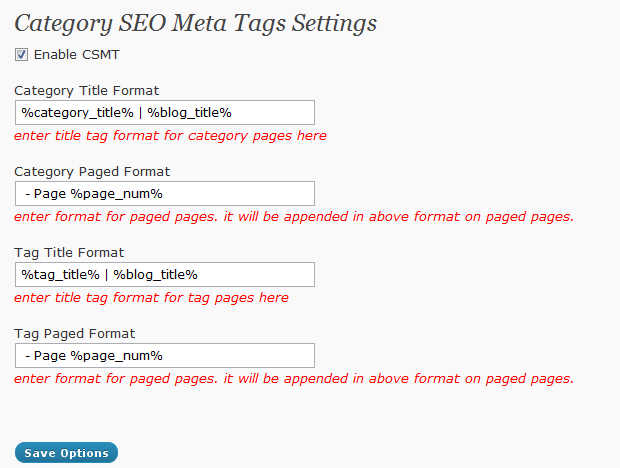
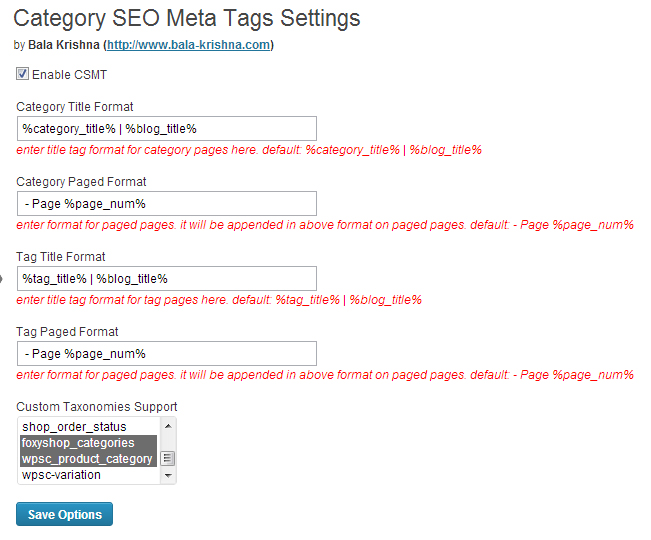
2.5 update with custom taxonomy support
git-svn-id: https://plugins.svn.wordpress.org/category-seo-meta-tags/trunk@667393 b8457f37-d9ea-0310-8a92-e5e31aec5664

diff --git a/category-seo-meta-tags.php b/category-seo-meta-tags.php
@@ -2,14 +2,14 @@
 /**
  * @package Category SEO Meta Tags
  * @author Bala Krishna
- * @version 2.3
+ * @version 2.5
  */
 /*
 Plugin Name: Category SEO Meta Tags
 Plugin URI: http://www.bala-krishna.com/wordpress-plugins/category-seo-meta-tags/
-Description: Add ability to add meta tags for category and tag pages. This plugin specially designed to work with All In One SEO plugin. <br /><a href="options-general.php?page=csmt">Settings</a> | <a href="https://www.paypal.com/cgi-bin/webscr?cmd=_donations&business=krishna711%40gmail%2ecom&item_name=WP Plugin Support Donation&item_number=Support%20Forum&no_shipping=0&no_note=1&tax=0&currency_code=USD&lc=US&bn=PP%2dDonationsBF&charset=UTF%2d8">Donate</a> | <a href="http://www.bala-krishna.com/forum/" >Support Forum</a> 
+Description: Add ability to add meta tags for category,tag pages and custom taxonomies. This plugin specially designed to work with All In One SEO plugin. <br /><a href="options-general.php?page=csmt">Settings</a> | <a href="https://www.paypal.com/cgi-bin/webscr?cmd=_donations&business=krishna711%40gmail%2ecom&item_name=WP Plugin Support Donation&item_number=Support%20Forum&no_shipping=0&no_note=1&tax=0&currency_code=USD&lc=US&bn=PP%2dDonationsBF&charset=UTF%2d8">Donate</a> | <a href="http://www.bala-krishna.com/forum/" >Support Forum</a> 
 Author: Bala Krishna, Sergey Yakovlev
-Version: 2.3
+Version: 2.5
 Author URI: http://www.bala-krishna.com
 */
 
@@ -21,6 +21,7 @@ This program is distributed in the hope that it will be useful, but WITHOUT ANY 
 */
 
 $csmt_domain = "category-seo-meta-tags";
+$csmt_version = '2.5';
 $csmt_is_setup = 0;
 
 function csmt_setup(){
@@ -56,7 +57,6 @@ function cat_seo_title_tag()
 	show_category_meta_title();
 }
 
-
 if(isset($_REQUEST['submit']) and $_REQUEST['submit'] and isset($_REQUEST['csmt_cat_title_format'])) {
 		if(isset($_REQUEST['csmt_enabled'])) {
 			$csmt_options['csmt_enabled'] = "1";
@@ -67,9 +67,9 @@ if(isset($_REQUEST['submit']) and $_REQUEST['submit'] and isset($_REQUEST['csmt_
 		$csmt_options['csmt_cat_paged_format'] = $_REQUEST['csmt_cat_paged_format'];
 		$csmt_options['csmt_tag_title_format'] = $_REQUEST['csmt_tag_title_format'];
 		$csmt_options['csmt_tag_paged_format'] = $_REQUEST['csmt_tag_paged_format'];
+		$csmt_options['csmt_taxonomies'] = $_REQUEST['csmt_taxonomies'];
 		update_option('csmt_options',$csmt_options);
 }
-
 
 if(isset($_POST['action']) && $_POST['action']=="editedtag" && $_POST['taxonomy']=="category") {
     $cat_meta_setting['page_title']=$_POST['cat_title'];
@@ -88,10 +88,26 @@ if(isset($_POST['action']) && $_POST['action']=="editedtag" && $_POST['taxonomy'
 		 update_option('tag_meta_key_'.$_POST['tag_ID'],$tag_meta_setting);
 	}	 
 }
-
+$csmt_options = get_option('csmt_options');
+$taxonomies = $csmt_options['csmt_taxonomies'];
+if(is_array($taxonomies)) {
+foreach ($taxonomies as $taxonomy ) {
+	if(isset($_POST['action']) && $_POST['action']=="editedtag" && $_POST['taxonomy']==$taxonomy) {
+		$tag_meta_setting['page_title']=$_POST['tag_title'];
+		$tag_meta_setting['description']=$_POST['tag_desc'];
+		$tag_meta_setting['metakey']=$_POST['tag_keywords'];
+		if(!empty($tag_meta_setting['page_title'])) {
+			 update_option($taxonomy.'_meta_key_'.$_POST['tag_ID'],$tag_meta_setting);
+		}	 
+	}
+}
+}
 // Meta Placement for category and tag pages
 
 function show_category_meta() {
+	global $wp_query, $wpsc_query;
+	$is_wpsc_bk = 0;
+	$csmt_options = get_option('csmt_options');
 	$cur_cat_id = get_cat_id( single_cat_title("",false) );
 	if(is_category($cur_cat_id)) {
 		get_current_cat_meta($cur_cat_id);
@@ -101,7 +117,28 @@ function show_category_meta() {
 		$cur_tag_id = get_query_var('tag_id');
 		get_current_tag_meta($cur_tag_id);
 	}
-
+	
+	if (isset($wpsc_query->query_vars['wpsc_product_category']) && !isset($wpsc_query->query_vars['wpsc-product'])) {
+		$current_taxonomy = 'wpsc_product_category';
+		$tag = get_term_by('slug', $wpsc_query->query_vars['wpsc_product_category'], 'wpsc_product_category');
+		$cur_tag_id = $tag->term_id;
+		$tag_meta_data = get_option($current_taxonomy.'_meta_key_'.$cur_tag_id); 
+		$current_taxonomy_val =	$wpsc_query->query_vars[$current_taxonomy];
+		get_current_tax_meta($current_taxonomy,$cur_tag_id);	
+	} else if(is_tax()) { // 4
+		//echo "TAX TRUE";
+		$taxonomies = $csmt_options['csmt_taxonomies'];
+		if(is_array($taxonomies)) { // 3
+			foreach ($taxonomies as $taxonomy ) { // 2
+				$taxonomy_val =	get_query_var($taxonomy);
+				if(is_tax($taxonomy,$taxonomy_val)) { // 1
+					$tag = get_term_by('slug', $taxonomy_val, $taxonomy);
+					$cur_tag_id = $tag->term_id;
+					get_current_tax_meta($taxonomy,$cur_tag_id);	
+				} // 1
+			} // 2
+		} // 3	
+	} // 4
 }
 
 function show_category_meta_title() {
@@ -141,10 +178,60 @@ function show_category_title() {
 }
 
 function show_tag_title() {
-	$cur_tag_id = get_query_var('tag_id');
-	$tag_meta_data = get_option('tag_meta_key_'.$cur_tag_id);
 	$csmt_options = get_option('csmt_options');
-	if(get_option('tag_meta_key_'.$cur_tag_id) && $csmt_options['csmt_enabled']) {
+	$taxonomies = $csmt_options['csmt_taxonomies'];
+	//echo "TAX TRUE";
+	global $wp_query, $wpsc_query;
+	$is_wpsc_bk = 0;
+	if (isset($wpsc_query->query_vars['wpsc_product_category']) && !isset($wpsc_query->query_vars['wpsc-product'])) {
+		$taxonomy = 'wpsc_product_category';
+		$tag = get_term_by('slug', $wpsc_query->query_vars['wpsc_product_category'], 'wpsc_product_category');
+		$cur_tag_id = $tag->term_id;
+		$tag_meta_data = get_option($taxonomy.'_meta_key_'.$cur_tag_id); 
+		$current_taxonomy = $taxonomy;
+		//$current_taxonomy_val =	get_query_var($taxonomy); 	
+		$current_taxonomy_val =	$wpsc_query->query_vars['wpsc_product_category'];
+		$is_wpsc_bk = 1; 	
+	} else if(is_tax()) {
+		if(is_array($taxonomies)) {
+			foreach ($taxonomies as $taxonomy ) {
+				$taxonomy_val =	get_query_var($taxonomy);
+				if(is_tax($taxonomy,$taxonomy_val)) {
+					$tag = get_term_by('slug', $taxonomy_val, $taxonomy);
+					$cur_tag_id = $tag->term_id;
+					$tag_meta_data = get_option($taxonomy.'_meta_key_'.$cur_tag_id); 
+					$current_taxonomy = $taxonomy;
+					$current_taxonomy_val =	get_query_var($taxonomy); 	
+				}
+			}
+		}	
+	} else {
+		$cur_tag_id = get_query_var('tag_id');
+		$tag_meta_data = get_option('tag_meta_key_'.$cur_tag_id);
+	}
+	if($is_wpsc_bk && get_option($current_taxonomy.'_meta_key_'.$cur_tag_id) && $csmt_options['csmt_enabled']) {
+		$title = "";
+		$title2 = "";
+		$title = str_replace('%tag_title%', $tag_meta_data['page_title'], $csmt_options['csmt_tag_title_format']);
+		$title = str_replace('%blog_title%', get_bloginfo('name'), $title);
+		if(is_paged())
+		{
+			$paged = (get_query_var('paged')) ? get_query_var('paged') : 1;
+			$title2 = str_replace('%page_num%', $paged, $csmt_options['csmt_tag_paged_format']);
+		}
+		$title = $title.$title2;
+	} else if(is_tax() && get_option($current_taxonomy.'_meta_key_'.$cur_tag_id) && $csmt_options['csmt_enabled']) {
+		$title = "";
+		$title2 = "";
+		$title = str_replace('%tag_title%', $tag_meta_data['page_title'], $csmt_options['csmt_tag_title_format']);
+		$title = str_replace('%blog_title%', get_bloginfo('name'), $title);
+		if(is_paged())
+		{
+			$paged = (get_query_var('paged')) ? get_query_var('paged') : 1;
+			$title2 = str_replace('%page_num%', $paged, $csmt_options['csmt_tag_paged_format']);
+		}
+		$title = $title.$title2;
+	} else if(get_option('tag_meta_key_'.$cur_tag_id) && $csmt_options['csmt_enabled']) {
 		$title = "";
 		$title2 = "";
 		$title = str_replace('%tag_title%', $tag_meta_data['page_title'], $csmt_options['csmt_tag_title_format']);
@@ -165,29 +252,45 @@ function show_tag_title() {
 		}
 		$title = $title.$title2;
 	}
+	//$title = $current_taxonomy." ".$current_taxonomy_val." ".$cur_tag_id." ".$title;
+	//$title = $cur_tag_id." ".$title;
 	return $title;
 }
 
 
 function get_current_cat_meta($cur_cat_id) {
 	$csmt_options = get_option('csmt_options');
+	global $csmt_version;
 	if(get_option('cat_meta_key_'.$cur_cat_id) && $csmt_options['csmt_enabled']) {
 	  $cat_meta_data = get_option('cat_meta_key_'.$cur_cat_id);
-	  echo '<!-- Category SEO Meta Tags 2.2 by Bala Krishna (http://www.bala-krishna.com) -->'."\r\n";
+	  echo '<!-- Category SEO Meta Tags '.$csmt_version.' by Bala Krishna (http://www.bala-krishna.com) -->'."\r\n";
 	  echo '<meta name="description" content="'.$cat_meta_data['description'].'" />'."\r\n";
 	  echo '<meta name="keywords" content="'.$cat_meta_data['metakey'].'" />'."\r\n";
-	  echo '<!-- /Category SEO Meta Tags 2.2 -->'."\r\n";
+	  echo '<!-- /Category SEO Meta Tags '.$csmt_version.' -->'."\r\n";
 	}
 }
 
 function get_current_tag_meta($cur_tag_id) {
 	$csmt_options = get_option('csmt_options');
+	global $csmt_version;
 	if(get_option('tag_meta_key_'.$cur_tag_id) && $csmt_options['csmt_enabled']) {
 	  $tag_meta_data = get_option('tag_meta_key_'.$cur_tag_id);
-	  echo '<!-- Category SEO Meta Tags 2.2 by Bala Krishna (http://www.bala-krishna.com) -->'."\r\n";
+	  echo '<!-- Category SEO Meta Tags '.$csmt_version.' by Bala Krishna (http://www.bala-krishna.com) -->'."\r\n";
 	  echo '<meta name="description" content="'.$tag_meta_data['description'].'" />'."\r\n";
 	  echo '<meta name="keywords" content="'.$tag_meta_data['metakey'].'" />'."\r\n";
-	  echo '<!-- /Category SEO Meta Tags 2.2 -->'."\r\n";
+	  echo '<!-- /Category SEO Meta Tags '.$csmt_version.' -->'."\r\n";
+	}
+}
+
+function get_current_tax_meta($taxonomy,$cur_tag_id) {
+	$csmt_options = get_option('csmt_options');
+	global $csmt_version;
+	if(get_option($taxonomy.'_meta_key_'.$cur_tag_id) && $csmt_options['csmt_enabled']) {
+	  $tag_meta_data = get_option($taxonomy.'_meta_key_'.$cur_tag_id);
+	  echo '<!-- Category SEO Meta Tags '.$csmt_version.' by Bala Krishna (http://www.bala-krishna.com) -->'."\r\n";
+	  echo '<meta name="description" content="'.$tag_meta_data['description'].'" />'."\r\n";
+	  echo '<meta name="keywords" content="'.$tag_meta_data['metakey'].'" />'."\r\n";
+	  echo '<!-- /Category SEO Meta Tags '.$csmt_version.' -->'."\r\n";
 	}
 }
 
@@ -208,7 +311,8 @@ function csmt_admin_options() {
   }
 
   echo '<div class="wrap">';
-  echo '<h2>' . _e("Category SEO Meta Tags Settings", $csmt_domain) . '</h2>';
+  echo '<h2>' . __("Category SEO Meta Tags Settings", $csmt_domain) . '</h2>  by
+<strong>Bala Krishna (<a href="http://www.bala-krishna.com" target="_blank">http://www.bala-krishna.com</a>)</strong>';
   if(isset($_REQUEST['submit']) and $_REQUEST['submit']) {
   echo '<div class="updated fade" id="message">';
   echo '<p>' . _e("Category SEO Meta Tags Settings Updated", $csmt_domai) . '</p>';
@@ -230,20 +334,36 @@ $csmt_options = get_option('csmt_options');
 
 <br />
 <?php echo _e("Category Title Format", $csmt_domain); ?> <br /><input name="csmt_cat_title_format" id="csmt_cat_title_format" value="<?php echo $csmt_options['csmt_cat_title_format']; ?>" style="width:290px;" /><br />
-<em><span style="color:#F00"><?php echo _e("enter title tag format for category pages here", $csmt_domain); ?></span></em>
+<em><span style="color:#F00"><?php echo _e("enter title tag format for category pages here. default: %category_title% | %blog_title%", $csmt_domain); ?></span></em>
 <br /><br />
 <?php echo _e("Category Paged Format", $csmt_domain); ?> <br /><input name="csmt_cat_paged_format" id="csmt_cat_paged_format" value="<?php echo $csmt_options['csmt_cat_paged_format']; ?>" style="width:290px;" /><br />
-<em><span style="color:#F00"><?php echo _e("enter format for paged pages. it will be appended in above format on paged pages.", $csmt_domain); ?></span></em>
+<em><span style="color:#F00"><?php echo _e("enter format for paged pages. it will be appended in above format on paged pages. default: - Page %page_num%", $csmt_domain); ?></span></em>
 <br /><br />
 <?php echo _e("Tag Title Format", $csmt_domain); ?> <br /><input name="csmt_tag_title_format" id="csmt_tag_title_format" value="<?php echo $csmt_options['csmt_tag_title_format']; ?>" style="width:290px;" /><br />
-<em><span style="color:#F00"><?php echo _e("enter title tag format for tag pages here", $csmt_domain); ?></span></em>
+<em><span style="color:#F00"><?php echo _e("enter title tag format for tag pages here. default: %tag_title% | %blog_title%", $csmt_domain); ?></span></em>
 <br /><br />
 <?php echo _e("Tag Paged Format", $csmt_domain); ?> <br /><input name="csmt_tag_paged_format" id="csmt_tag_paged_format" value="<?php echo $csmt_options['csmt_tag_paged_format']; ?>" style="width:290px;" /><br />
-<em><span style="color:#F00"><?php echo _e("enter format for paged pages. it will be appended in above format on paged pages.", $csmt_domain); ?></span></em>
+<em><span style="color:#F00"><?php echo _e("enter format for paged pages. it will be appended in above format on paged pages. default: - Page %page_num%", $csmt_domain); ?></span></em>
+<br /><br />
+
+<?php echo _e("Custom Taxonomies Support", $csmt_domain); ?> <br />
+<select name="csmt_taxonomies[]" MULTIPLE>
+<?php 
+$taxonomies=get_taxonomies('','names'); 
+foreach ($taxonomies as $taxonomy ) {
+  //echo '<p>'. $taxonomy. '</p>';
+  	if($taxonomy=='category' || $taxonomy=='post_tag'  || $taxonomy=='nav_menu' || $taxonomy=='link_category' || $taxonomy=='post_format' ) { } else {
+		echo "<option ";
+		if(is_array($csmt_options['csmt_taxonomies']) && in_array($taxonomy,$csmt_options['csmt_taxonomies'])) echo "selected ";
+		echo "name=\"taxonomies\">$taxonomy";
+		echo "</option>";
+	}
+}
+?>
+</select>
 <br /><br />
 <input type="hidden" id="user-id" name="user_ID" value="<?php echo (int) $user_ID ?>" />
 <span id="autosave"></span>
-<br /><br />
 <input class="button-primary" type="submit" name="submit" value="<?php echo 'Save Options'; ?>" style="font-weight: bold;" />
 </form>
 </td>
@@ -346,28 +466,35 @@ if(isset($_GET['action']) && $_GET['action']=="edit") {
 function tag_meta_form() {
 global $csmt_domain;
 if(isset($_GET['action']) && $_GET['action']=="edit") {
+	//if(isset($_GET['taxonomy']) && ($_GET['taxonomy']=='post_tag')) $t="Tag"; else $t="Category";
 ?>
 <div class="icon32" id="icon-edit"><br></div>
-<h2><?php echo _e("Tag Meta Setting", $csmt_domain); ?></h2>
-<?php $cat_meta = get_option('tag_meta_key_'.$_GET['tag_ID']); //print_r( $cat_meta); ?>
+<h2><?php echo _e("Meta Settings", $csmt_domain); ?></h2>
+<?php 
+if(isset($_GET['taxonomy']) && ($_GET['taxonomy']!='post_tag') ) { 
+	$cat_meta = get_option($_GET['taxonomy'].'_meta_key_'.$_GET['tag_ID']); 
+} else {
+	$cat_meta = get_option('tag_meta_key_'.$_GET['tag_ID']); 
+}    
+//print_r( $cat_meta); ?>
 <table class="form-table" >
 <tbody>
   <tr class="form-field form-required">
-  <th valign="top" scope="row"><label for="tag_title"><?php echo _e("Tag Title:", $csmt_domain); ?></label></th>
+  <th valign="top" scope="row"><label for="tag_title"><?php echo _e("Meta Title:", $csmt_domain); ?></label></th>
     <td><input name="tag_title" type="text" size="40" value="<?php echo $cat_meta['page_title']; ?>" />
-    <p class="description"><?php echo _e("Enter tag title tag here.", $csmt_domain); ?><span style="color:#F00"><?php echo _e(" (*required)", $csmt_domain); ?></span></p>
+    <p class="description"><?php echo _e("Enter meta title tag here.", $csmt_domain); ?><span style="color:#F00"><?php echo _e(" (*required)", $csmt_domain); ?></span></p>
     </td>
   </tr>
   <tr class="form-field form-required">
   <th valign="top" scope="row"><label for="tag_desc"><?php echo _e("Description:", $csmt_domain); ?></label></th>
     <td><textarea name="tag_desc" size="40" rows="4"><?php echo $cat_meta['description']; ?></textarea>
-    <p class="description"><?php echo _e("Enter tag description text here.", $csmt_domain); ?><span style="color:#F00"><?php echo _e(" (can be left blank)", $csmt_domain); ?></span></p>
+    <p class="description"><?php echo _e("Enter meta description text here.", $csmt_domain); ?><span style="color:#F00"><?php echo _e(" (can be left blank)", $csmt_domain); ?></span></p>
     </td>
   </tr>
   <tr class="form-field form-required">
   <th valign="top" scope="row"><label for="tag_keywords"><?php echo _e("Keywords", $csmt_domain); ?></label></th>
     <td><input name="tag_keywords" type="text" size="40" value="<?php echo $cat_meta['metakey']; ?>" />
-    <p class="description"><?php echo _e("Enter tag keywords here.", $csmt_domain); ?><span style="color:#F00"><?php echo _e(" (can be left blank)", $csmt_domain); ?></span></p></td>
+    <p class="description"><?php echo _e("Enter meta keywords here.", $csmt_domain); ?><span style="color:#F00"><?php echo _e(" (can be left blank)", $csmt_domain); ?></span></p></td>
   </tr>
  </tbody> 
 </table>
@@ -378,6 +505,7 @@ if(isset($_GET['action']) && $_GET['action']=="edit") {
 <?php
 }
 }
+
 
 add_filter('aioseop_category_title',show_category_title);
 add_filter('aioseop_tag_title',show_tag_title);
